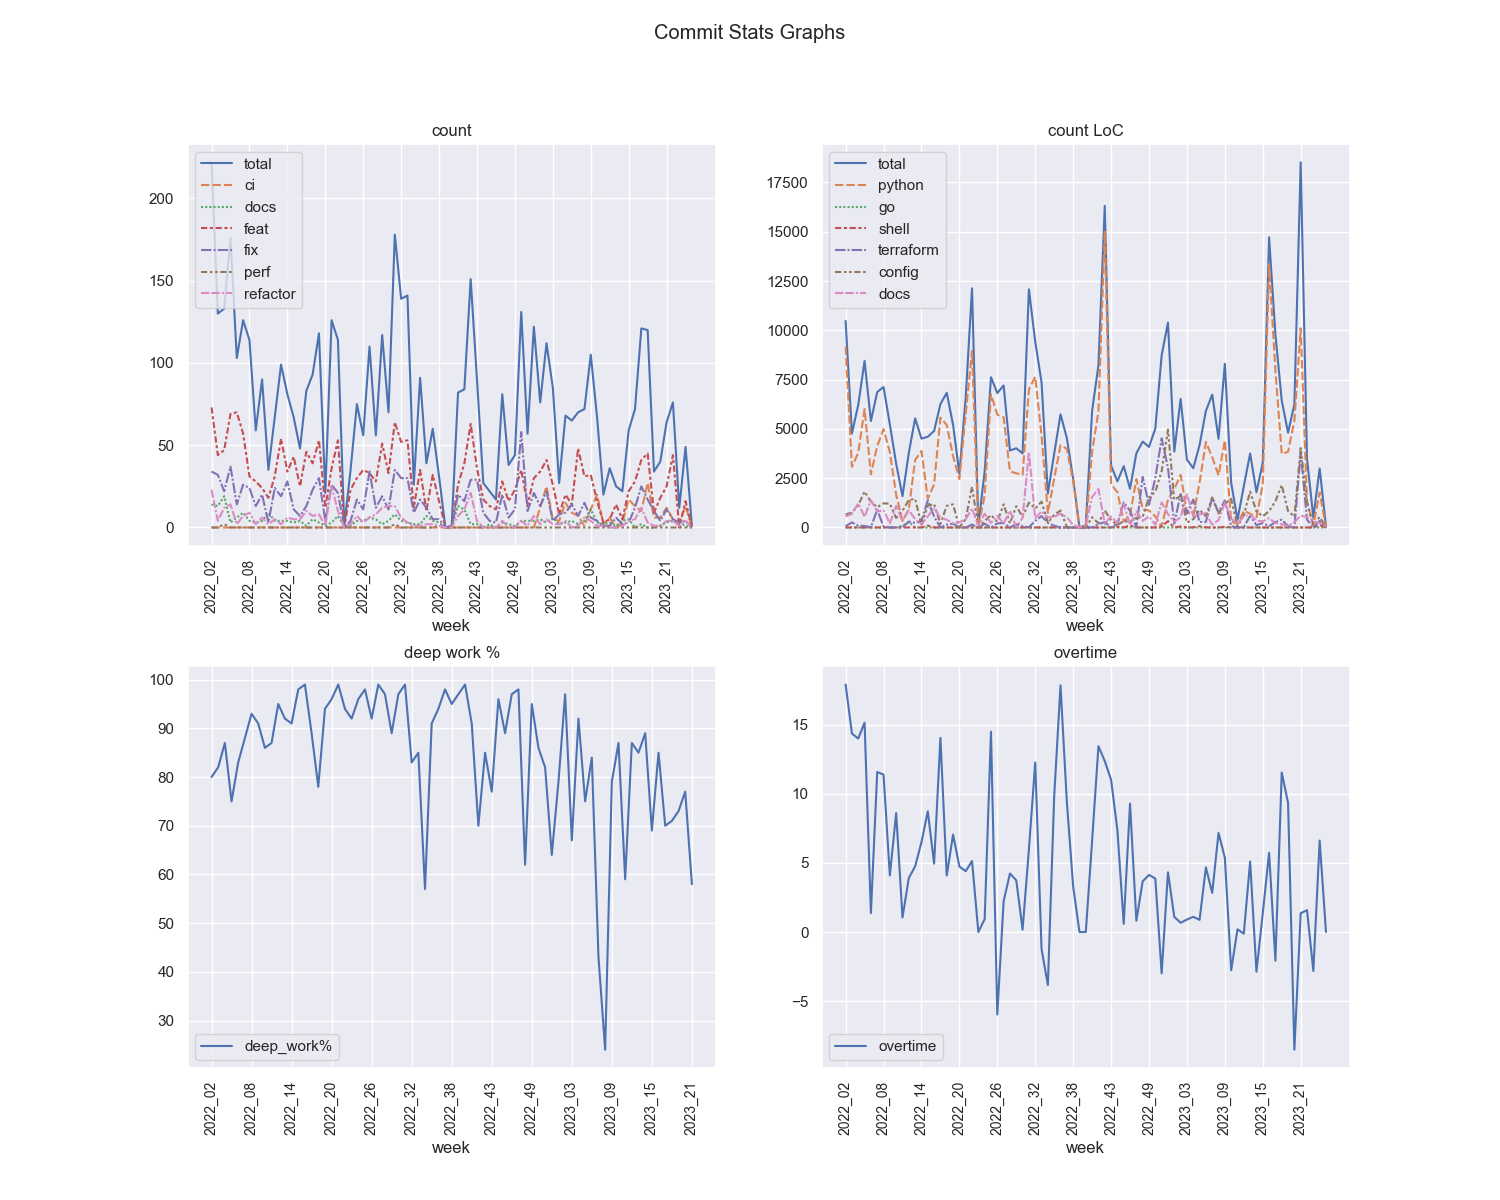
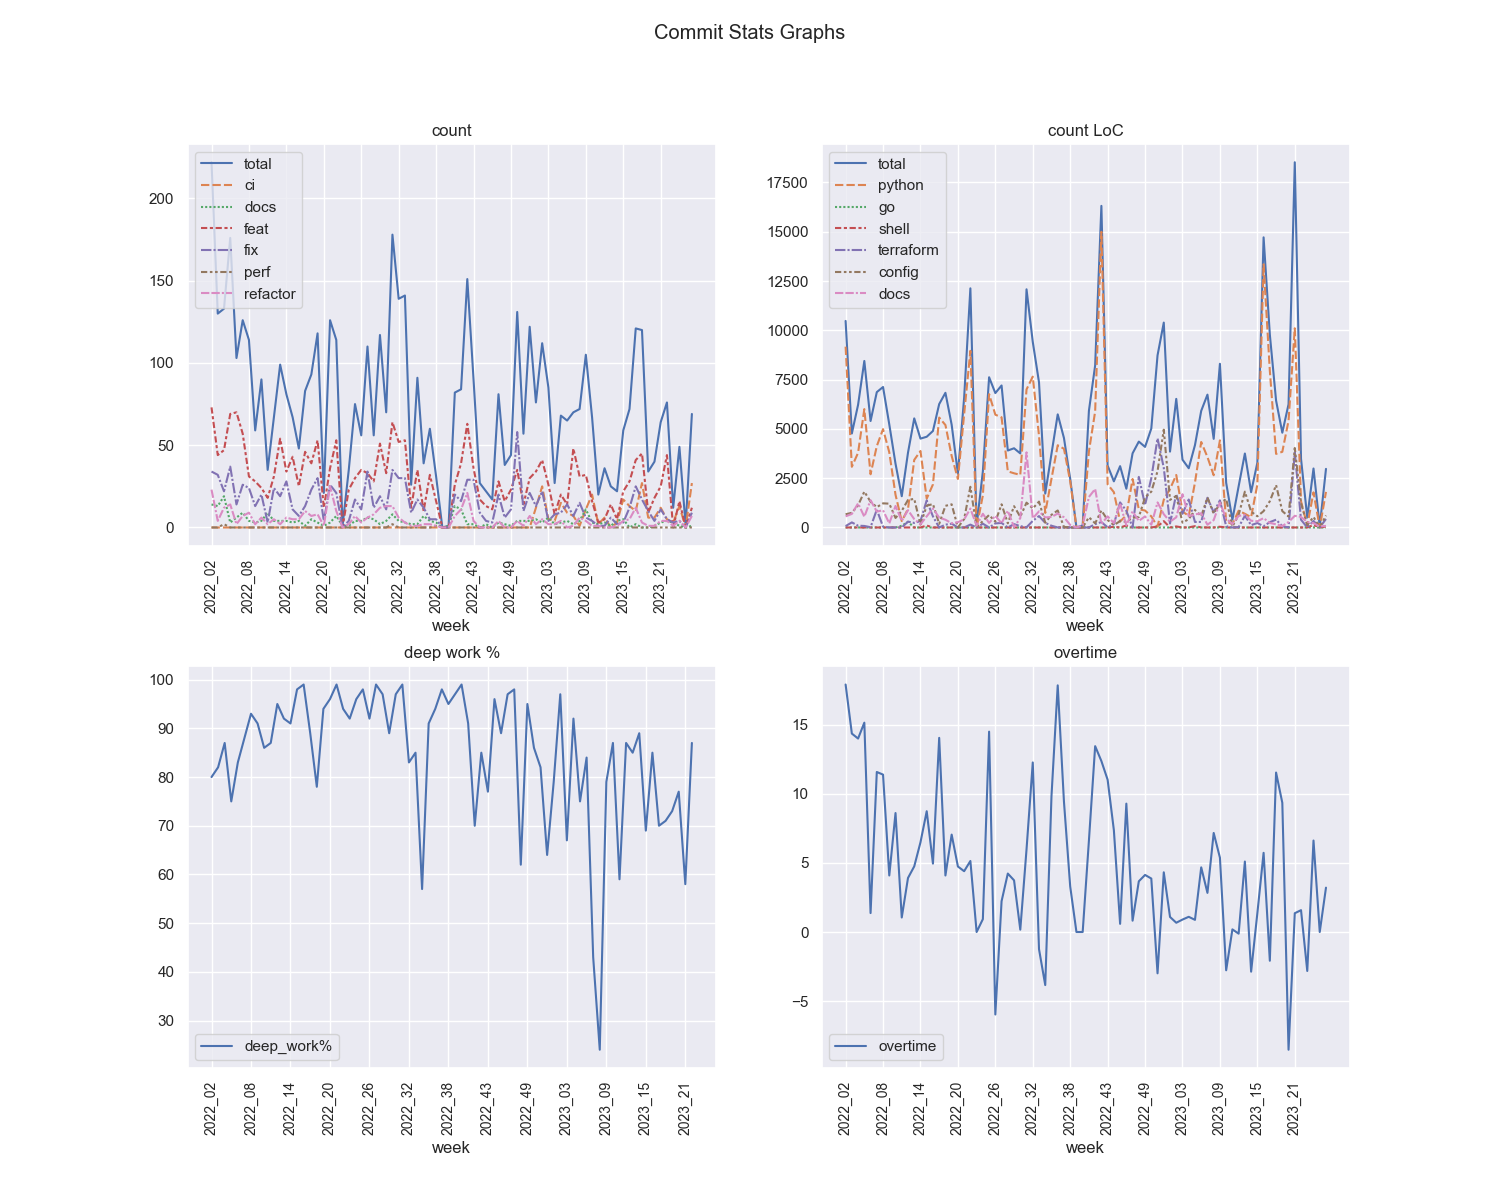
chore: update weekly stats

diff --git a/README.md b/README.md
@@ -28,7 +28,7 @@ When not coding, I like to climb, lift weights, walk on my hands, explore nature
 ## Rapidfire  
 - 𐃏  I’m currently helping [wheel.me](https://wheel.me) to develop a Robotics as a Service product where I'm in charge of the cloud
 - 🔭 I’m currently working on [pants_py_deploy](https://github.com/EspenAlbert/py-libs/tree/main/_pants/pants_py_deploy) a [pants](https://www.pantsbuild.org/docs) plugin for making it easy to maintain docker-compose files and helm-charts across projects
-- 🌱 I’m currently learning Spanish, Istio, and Go
+- 🌱 I’m currently learning Spanish, serverless, and observability best practices
 - ❓ Ask me about anything related to the Python language  
 - ⚡ Fun fact: I use a [split keyboard](https://www.zsa.io/moonlander/) and always travel with a 27'' screen in the suitcase  
 <br/>  
@@ -73,15 +73,15 @@ When not coding, I like to climb, lift weights, walk on my hands, explore nature
 
 ## Key metrics
 <!-- KEY-METRICS:START -->
-Key Metrics dumped @ `2023-07-03T06-36Z`
+Key Metrics dumped @ `2023-07-10T05-47Z`
 
 ### Commits
 
 Metric | Total | Δ 52w | Δ 13w | Δ 1w
 --- | --- | --- | --- | ---
-commit_features | 2290 | 1282 | 267 | 0
-commit_fixes | 1124 | 627 | 102 | 0
-commit_total | 5775 | 3393 | 695 | 1
+commit_features | 2302 | 1266 | 265 | 12
+commit_fixes | 1133 | 624 | 105 | 9
+commit_total | 5844 | 3406 | 739 | 69
 
 - Based on [Angular Commit message guideline](https://github.com/angular/angular/blob/main/CONTRIBUTING.md#-commit-message-guidelines)
 
@@ -89,17 +89,17 @@ commit_total | 5775 | 3393 | 695 | 1
 
 Metric | Total | Δ 52w | Δ 13w | Δ 1w
 --- | --- | --- | --- | ---
-break% | 4.58 | 4.13 | 3.77 | 0
-deep_life% | 61.28 | 68.75 | 67.77 | 0
-deep_work% | 79.19 | 75.42 | 70 | 0
-life_days | 256 | 174 | 38 | 2
-life_hours | 487.4 | 369.97 | 118.97 | 6.84
-overtime | 364.1 | 184.59 | 26.35 | 0
-public_holidays | 20 | 11 | 9 | 0
+break% | 4.56 | 4.08 | 3.77 | 3
+deep_life% | 61.24 | 68.88 | 68.69 | 58
+deep_work% | 79.29 | 75.19 | 70 | 87
+life_days | 257 | 173 | 33 | 1
+life_hours | 489.19 | 369.28 | 90.8 | 1.79
+overtime | 367.31 | 183.57 | 24.46 | 3.21
+public_holidays | 20 | 11 | 6 | 0
 sick_days | 1 | 1 | 0 | 0
-vacation_days | 38 | 29 | 9 | 5
-work_days | 356 | 229 | 50 | 0
-work_hours | 2806.18 | 1812.01 | 393.81 | 0
+vacation_days | 38 | 27 | 9 | 0
+work_days | 361 | 231 | 52 | 5
+work_hours | 2846.89 | 1825.99 | 406.93 | 40.71
 
 - break% is `break_time` / `total_hours`, where break_time is going to the bathroom, pomodoro break, quick snack, coffee, etc.
 - deep_{life/work}% are inspired by [Cal Newport](https://www.calnewport.com/) where I track time either as _deep_ (focused work, e.g., coding, design writing, research, etc.) or _shallow_ (virtual meeting with many participants, slack chats, email replying, etc.)
@@ -111,18 +111,18 @@ work_hours | 2806.18 | 1812.01 | 393.81 | 0
 
 Metric | Total | Δ 52w | Δ 13w | Δ 1w
 --- | --- | --- | --- | ---
-config_add | 52734 | 36015 | 11855 | 0
-config_del | 17896 | 11504 | 2957 | 0
-docs_add | 33944 | 23112 | 2799 | 26
-docs_del | 11464 | 7039 | 1393 | 26
+config_add | 53178 | 36250 | 10502 | 444
+config_del | 18059 | 11665 | 3099 | 163
+docs_add | 33982 | 22512 | 2228 | 38
+docs_del | 11506 | 6873 | 1398 | 42
 go_add | 274 | 0 | 0 | 0
 go_del | 99 | 0 | 0 | 0
-python_add | 187309 | 115513 | 40532 | 0
-python_del | 68248 | 37244 | 10460 | 0
+python_add | 188366 | 114254 | 40962 | 1057
+python_del | 68995 | 37460 | 11139 | 747
 shell_add | 725 | 627 | 120 | 0
-shell_del | 173 | 173 | 6 | 0
-terraform_add | 28268 | 23775 | 5157 | 0
-terraform_del | 9610 | 8752 | 1100 | 0
+shell_del | 222 | 222 | 55 | 49
+terraform_add | 28700 | 24207 | 5004 | 432
+terraform_del | 9610 | 8752 | 1092 | 0
 
 - python is for files ending in: ".py",".pyi"
 - go is for files ending in: ".go"
@@ -136,12 +136,12 @@ terraform_del | 9610 | 8752 | 1100 | 0
 Metric | Total | Δ 52w | Δ 13w | Δ 1w
 --- | --- | --- | --- | ---
 design_spec | 12 | 6 | 0 | 0
-dockerfile | 48 | 19 | 5 | 0
-helm_chart | 47 | 22 | 11 | 0
-pypi_package | 115 | 42 | 16 | 0
-python_package | 43 | 28 | 5 | 0
-terraform_module | 80 | 63 | 10 | 0
-uml_diagram | 39 | 26 | 0 | 0
+dockerfile | 48 | 18 | 1 | 0
+helm_chart | 47 | 22 | 7 | 0
+pypi_package | 118 | 37 | 18 | 3
+python_package | 44 | 28 | 6 | 1
+terraform_module | 81 | 64 | 8 | 1
+uml_diagram | 39 | 24 | 0 | 0
 <!-- KEY-METRICS:END -->
 - `pypi_package` are 3rd party packages used, see list in [requirements.txt](./requirements.txt)
 - `python_package` are local packages I have created
